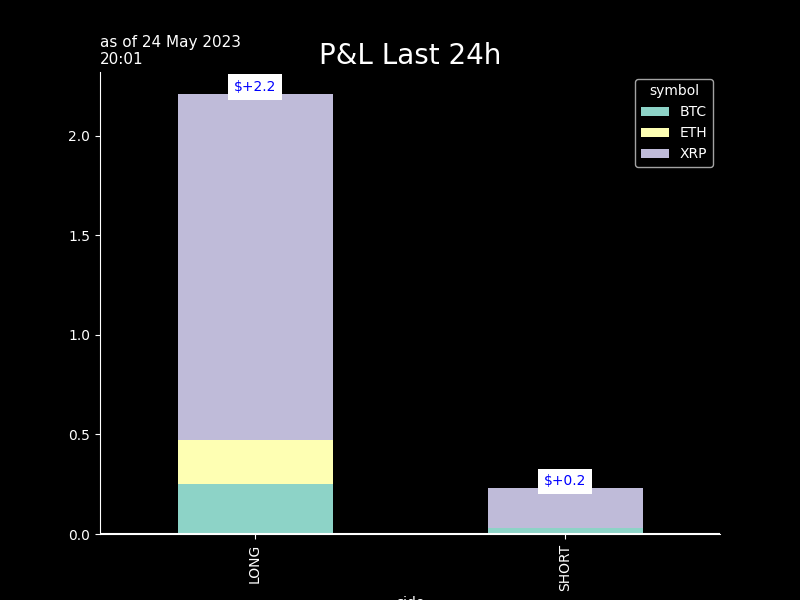
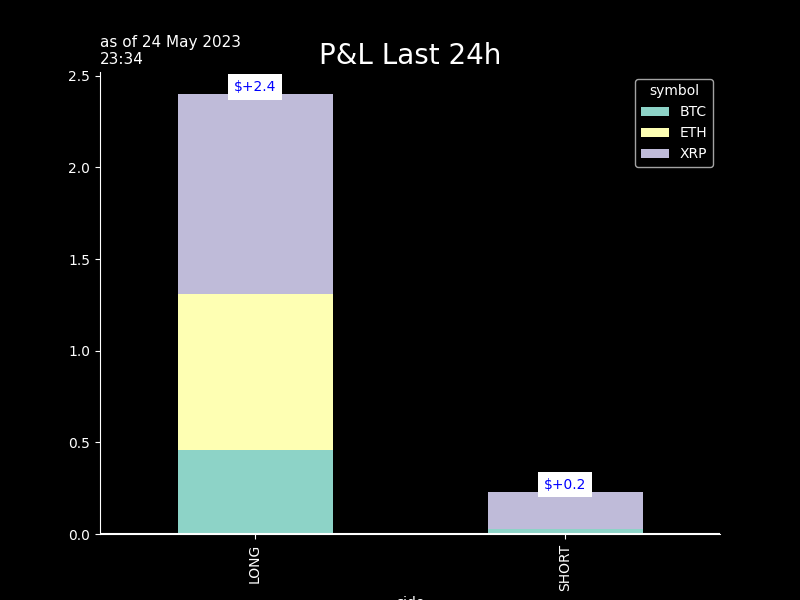
seb_commit

diff --git a/crypto/graphs/bt_trades_book.htmltrade_trades_book.html b/crypto/graphs/bt_trades_book.htmltrade_trades_book.html
@@ -37,55 +37,55 @@
   </thead>
   <tbody>
     <tr>
-      <th>ETHUSDT</th>
-      <td>1789.0400</td>
-      <td>2023-05-24 18:32:50</td>
-      <td>0.087</td>
-      <td>$155.6</td>
-      <td>$0.03</td>
-      <td>2.0</td>
-      <td>0.0</td>
-      <td>1788.21500</td>
-      <td>2023-05-24 19:31</td>
-      <td>-0.1</td>
-      <td>-4.0</td>
-      <td>1789.49</td>
-      <td>0.0</td>
-      <td>3.0</td>
-    </tr>
-    <tr>
       <th>XRPUSDT</th>
-      <td>0.4497</td>
-      <td>2023-05-24 18:34:51</td>
-      <td>347.900</td>
-      <td>$156.5</td>
-      <td>$0.03</td>
+      <td>0.4527</td>
+      <td>2023-05-24 22:33:45</td>
+      <td>-433.800</td>
+      <td>$-196.4</td>
+      <td>$0.04</td>
       <td>2.0</td>
+      <td>1.0</td>
+      <td>0.45265</td>
+      <td>2023-05-24 23:31</td>
       <td>0.0</td>
-      <td>0.44935</td>
-      <td>2023-05-24 19:31</td>
-      <td>-0.1</td>
-      <td>-8.0</td>
-      <td>.4497</td>
-      <td>-0.0</td>
-      <td>-0.0</td>
+      <td>1.0</td>
+      <td>.4527</td>
+      <td>0.0</td>
+      <td>0.0</td>
     </tr>
     <tr>
       <th>BTCUSDT</th>
-      <td>26262.3000</td>
-      <td>2023-05-24 18:32:50</td>
-      <td>0.006</td>
-      <td>$157.6</td>
+      <td>26337.7000</td>
+      <td>2023-05-24 22:32:58</td>
+      <td>-0.007</td>
+      <td>$-184.4</td>
+      <td>$0.04</td>
+      <td>2.0</td>
+      <td>0.5</td>
+      <td>26348.95000</td>
+      <td>2023-05-24 23:31</td>
+      <td>-0.1</td>
+      <td>-4.0</td>
+      <td>26335.8</td>
+      <td>0.0</td>
+      <td>1.0</td>
+    </tr>
+    <tr>
+      <th>ETHUSDT</th>
+      <td>1798.8600</td>
+      <td>2023-05-24 22:33:00</td>
+      <td>-0.087</td>
+      <td>$-156.5</td>
       <td>$0.03</td>
       <td>2.0</td>
-      <td>0.0</td>
-      <td>26247.95000</td>
-      <td>2023-05-24 19:31</td>
+      <td>0.8</td>
+      <td>1799.68500</td>
+      <td>2023-05-24 23:31</td>
       <td>-0.1</td>
-      <td>-6.0</td>
-      <td>26273.1</td>
-      <td>0.1</td>
-      <td>4.0</td>
+      <td>-4.0</td>
+      <td>1798.99</td>
+      <td>-0.0</td>
+      <td>-1.0</td>
     </tr>
   </tbody>
 </table>

diff --git a/crypto/graphs/bt_trades_recap.htmltrade_trades_recap.html b/crypto/graphs/bt_trades_recap.htmltrade_trades_recap.html
@@ -9,32 +9,32 @@
   <tbody>
     <tr>
       <th>as of</th>
-      <td>24May 18:32&gt;&gt;18:34</td>
+      <td>24May 22:32&gt;&gt;22:33</td>
       <td>#trades: 3</td>
     </tr>
     <tr>
       <th>trade net</th>
-      <td>+470.0</td>
-      <td>+150.4%</td>
+      <td>-537.0</td>
+      <td>-170.5%</td>
     </tr>
     <tr>
       <th>trade gross</th>
-      <td>+470.0</td>
-      <td>+150.4%</td>
+      <td>+537.0</td>
+      <td>+170.5%</td>
     </tr>
     <tr>
       <th>BUY</th>
-      <td>+470.0</td>
-      <td>+150.4%</td>
-    </tr>
-    <tr>
-      <th>SELL</th>
       <td>+0.0</td>
       <td>+0.0%</td>
     </tr>
     <tr>
+      <th>SELL</th>
+      <td>-537.0</td>
+      <td>-170.5%</td>
+    </tr>
+    <tr>
       <th>fees</th>
-      <td>$ 0.094</td>
+      <td>$ 0.107</td>
       <td>2.0bp</td>
     </tr>
   </tbody>

diff --git a/crypto/graphs/bt_trades_pnlD_recap.htmltrade_trades_pnlD_recap.html b/crypto/graphs/bt_trades_pnlD_recap.htmltrade_trades_pnlD_recap.html
@@ -1,7 +1,7 @@
 <table border="1" class="dataframe">
   <thead>
     <tr style="text-align: right;">
-      <th>24 May 19:34</th>
+      <th>24 May 23:33</th>
       <th>realizedPnl</th>
       <th>PnLvsArrival</th>
       <th>PnLvsLast</th>
@@ -10,21 +10,21 @@
   <tbody>
     <tr>
       <th>in$</th>
+      <td>2.3</td>
+      <td>-0.1</td>
       <td>0.0</td>
-      <td>-0.3</td>
-      <td>0.1</td>
     </tr>
     <tr>
-      <th>in bp 469 traded</th>
+      <th>in bp 537 traded</th>
+      <td>44 bp</td>
+      <td>-2 bp</td>
       <td>0 bp</td>
-      <td>-6 bp</td>
-      <td>2 bp</td>
     </tr>
     <tr>
-      <th>in bp 312 AUMs</th>
+      <th>in bp 314 AUMs</th>
+      <td>74 bp</td>
+      <td>-4 bp</td>
       <td>0 bp</td>
-      <td>-9 bp</td>
-      <td>3 bp</td>
     </tr>
   </tbody>
 </table>
